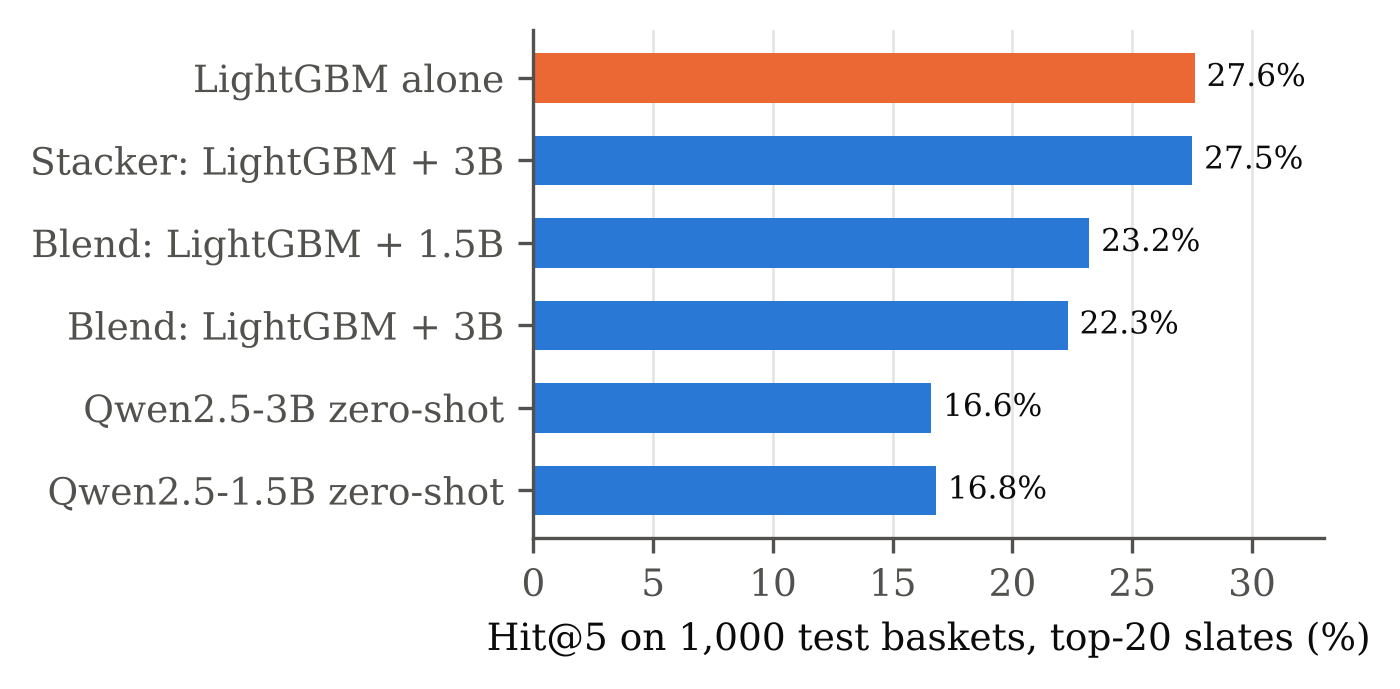
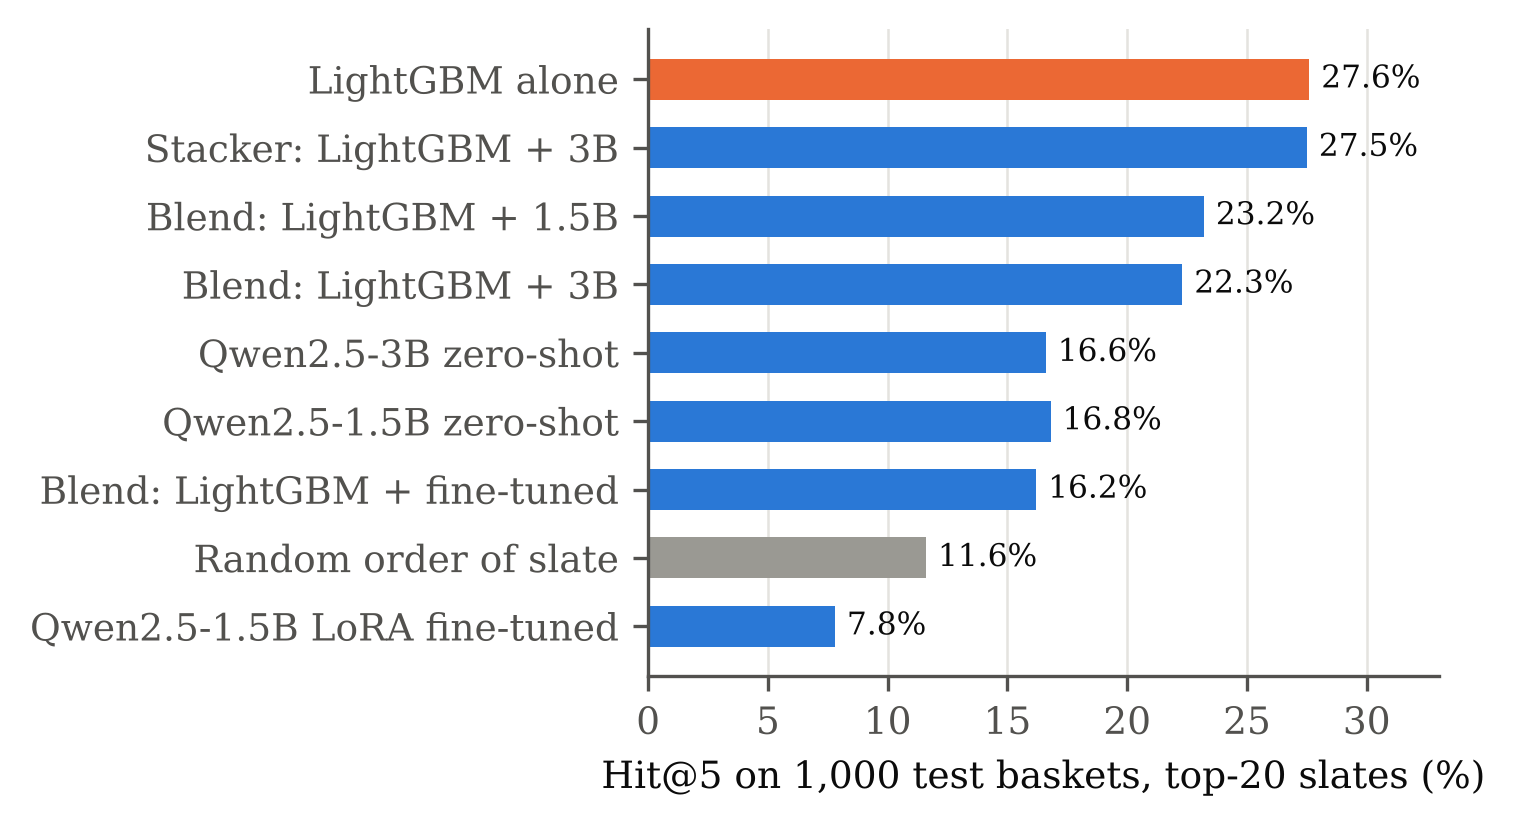
Record E6 LoRA fine-tune NO-GO and close the LLM track
Fine-tuned Qwen2.5-1.5B: Hit@5 7.8% (random order of the slate 11.6%),
blend 16.2% vs LightGBM 27.6%. LightGBM stays the ranker; the LLM is kept
only for cold-start products and explanations. Updates RESULTS, the core
pipeline worklog, WORKLOG.md, the paper text and Figure 4.

Changed region(s): [[0.0, 0.061, 0.9829, 0.9753], [0.3686, 0.8229, 0.3993, 0.8534]]

diff --git a/paper/main.tex b/paper/main.tex
@@ -33,7 +33,7 @@ Stage~1 retrieves 150 candidates from eleven sources (classical recommenders, te
 Stage~2 solves a small mixed-integer program per basket that trades expected relevance against expected gross profit, under a hard 15\% per-item margin floor, a two-item limit, stock availability, and an optional overstock weight.
 On a strict temporal split of UCI Online Retail II (4,480 test baskets), the reranker reaches Hit@10 of 38.1\%, 7.0 points above the best baseline (EASE, 31.1\%; paired 95\% CI [6.0, 8.0]).
 With \emph{simulated} unit cost and stock, the optimizer at $\lambda{=}0.5$ raises realized gross profit per basket by 14\% over the ranker's top-2 (paired CI of the gain \pounds0.014--0.044) for a 1.1-point drop in Hit@2, with zero margin-floor violations; the gain stays positive over nine cost and stock scenarios.
-We also report a negative result: zero-shot Qwen2.5 1.5B and 3B rerankers, their rank blends, and a stacker that feeds the LLM score to a logistic model all fail to beat LightGBM on the same slates.
+We also report a negative result: zero-shot Qwen2.5 1.5B and 3B rerankers, their rank blends, a stacker that feeds the LLM score to a logistic model, and a LoRA fine-tune of the 1.5B model all fail to beat LightGBM on the same slates.
 All numbers in this paper are read from files the pipeline writes; none are targets.
 \end{abstract}
 
@@ -290,6 +290,9 @@ Qwen2.5-1.5B zero-shot & 16.8 & 29.5 & $-10.8$ [$-13.7$, $-7.9$] \\
 Qwen2.5-3B zero-shot & 16.6 & --- & $-11.0$ [$-13.7$, $-8.4$] \\
 \quad rank blend with LightGBM & 22.3 & 33.9 & $-5.3$ [$-7.2$, $-3.4$] \\
 Stacker (LightGBM + 3B features) & 27.5 & --- & $-0.1$ [$-0.6$, $+0.3$] \\
+Qwen2.5-1.5B LoRA fine-tuned & 7.8 & 17.4 & $-19.8$ [$-22.8$, $-16.7$] \\
+\quad rank blend with LightGBM & 16.2 & 30.4 & $-11.4$ [$-13.9$, $-8.8$] \\
+Random order of the slate & 11.6 & 23.2 & --- \\
 \bottomrule
 \end{tabular}
 \end{table}
@@ -308,8 +311,11 @@ A logistic stacker fit on 1,147 held-out validation baskets, with LightGBM and 3
 In short, zero-shot Qwen adds no measurable signal beyond the trained reranker on this task.
 
 This agrees with \citet{hou2024zeroshot}, who find zero-shot LLM rankers trail trained models, and suggests the gap is larger for wholesale baskets described only by terse product names.
-A LoRA fine-tune~\citep{hu2022lora,bao2023tallrec} of the 1.5B model on 10,772 training-period pairs (one hidden item to three LightGBM hard negatives, two epochs) is running at the time of writing; we will report it whatever the outcome.
-Until an LLM wins on a paired test, LightGBM remains MarginGraph's ranker, and the LLM's role is limited to explanations and to products with no purchase history.
+We then fine-tuned the 1.5B model with LoRA~\citep{hu2022lora,bao2023tallrec} on 10,772 training-period pairs (each hidden item with three LightGBM hard negatives from the same slate; two epochs, class-weighted yes/no loss).
+The weighted loss fell to about $\ln 2$ within 300 steps and stayed there, and the fine-tuned model is worse than zero-shot: Hit@5 7.8\%, below the 11.6\% of a random order of the same slate (the target is in the slate for 46.3\% of baskets).
+Its blend with LightGBM also loses at Hit@10 ($-5.7$ [$-7.7$, $-3.6$]).
+A likely cause, which we did not test, is that LightGBM's near-misses are often the same product in another colour or size, which terse product names cannot separate.
+We therefore keep LightGBM as MarginGraph's ranker and limit the LLM to explanations and to products with no purchase history (7.1\% of test targets); neither use is evaluated here.
 
 % ---------------------------------------------------------------------------
 \section{Limitations}
@@ -318,15 +324,15 @@ Until an LLM wins on a paired test, LightGBM remains MarginGraph's ranker, and t
 \item \textbf{Offline replay.} Replay credits an offer only if the shopper bought it without being shown it. It cannot see purchases an offer would have caused, so it likely understates any recommender, and it cannot measure how shoppers react to being shown higher-margin items. Only an online A/B test can.
 \item \textbf{One store, one task.} One UK wholesaler, mostly business buyers, 2009--2011. Hiding one item per invoice is a proxy for a real checkout widget.
 \item \textbf{Retrieval ceiling.} 35\% of test targets are outside the candidate pool, which bounds every Stage~1 and Stage~2 result.
-\item \textbf{LLM scope.} We tested two small instruction-tuned models zero-shot, one prompt and one scoring method, on the slates of the first ranker (Hit@10 35.6\%). Larger models, other prompts, or fine-tuning may behave differently; the fine-tune is pending.
+\item \textbf{LLM scope.} We tested two small instruction-tuned models zero-shot, one prompt and one scoring method, on the slates of the first ranker (Hit@10 35.6\%). One LoRA fine-tune of the 1.5B model with hard negatives also failed. Larger models, other prompts, richer product text, or easier negatives may behave differently.
 \item \textbf{Latency.} Solver time is 2.7\,ms. The serving latency in the repository (p50 22\,ms for the research API, p95 88\,ms end to end for the multi-store service) was measured in a container, not in a store's production setting.
 \end{itemize}
 
 % ---------------------------------------------------------------------------
 \section{Conclusion}
 On a public retail dataset and a CPU, a calibrated gradient-boosted reranker beats a strong classical ladder for checkout add-ons, and a tiny per-basket MILP converts its probabilities into choices that respect hard margin and stock rules while raising (simulated) profit at a small, tunable cost in hit rate.
-Small open LLMs, used zero-shot, did not help.
-The next steps are to replace simulated costs with a real store's data, to run an online test, and to finish the fine-tuned LLM experiment.
+Small open LLMs did not help, either zero-shot or after a LoRA fine-tune.
+The next steps are to replace simulated costs with a real store's data, to run an online test, and to measure the LLM where it is still used: cold-start products and explanations.
 
 \section*{Reproducibility}
 \sloppy

diff --git a/paper/figures/make_figures.py b/paper/figures/make_figures.py
@@ -112,12 +112,13 @@ def fig_sensitivity():
 
 # Fig 4: LLM vs LightGBM on the same 1,000 test slates (Hit@5)
 def fig_llm():
-    rows = [("Qwen2.5-1.5B zero-shot", 16.8), ("Qwen2.5-3B zero-shot", 16.6),
+    rows = [("Qwen2.5-1.5B LoRA fine-tuned", 7.8), ("Random order of slate", 11.6),
+            ("Blend: LightGBM + fine-tuned", 16.2), ("Qwen2.5-1.5B zero-shot", 16.8), ("Qwen2.5-3B zero-shot", 16.6),
             ("Blend: LightGBM + 3B", 22.3), ("Blend: LightGBM + 1.5B", 23.2),
             ("Stacker: LightGBM + 3B", 27.5), ("LightGBM alone", 27.6)]
-    fig, ax = plt.subplots(figsize=(3.4, 2.2))
+    fig, ax = plt.subplots(figsize=(3.4, 2.8))
     y = range(len(rows))
-    ax.barh(y, [v for _, v in rows], color=[ORANGE if n == "LightGBM alone" else BLUE for n, _ in rows], height=0.6)
+    ax.barh(y, [v for _, v in rows], color=[ORANGE if n == "LightGBM alone" else GREY if n.startswith("Random") else BLUE for n, _ in rows], height=0.6)
     for yi, (_, v) in zip(y, rows):
         ax.text(v + 0.5, yi, f"{v:.1f}%", va="center", fontsize=7.5, color=INK)
     ax.set_yticks(list(y), [n for n, _ in rows])

diff --git a/docs/WORKLOG.md b/docs/WORKLOG.md
@@ -9,7 +9,7 @@ Each work thread keeps its own detailed log in [`docs/worklog/`](worklog/). This
 | # | Thread (goal) | Started | Pull request | Branch | Status | Detailed log |
 | --- | --- | --- | --- | --- | --- | --- |
 | 1 | Rate MarginGraph and plan experiments | 2026-10-25 | [#1](https://github.com/Sanskar1724/MarginGraph/pull/1) Notebooks, project report, experiment plan | `claude/add-notebooks-and-plan` | Merged into `main` 2026-10-26 | [history](worklog/history-2026-10-26.md#1-review-and-experiment-plan-2026-10-25) |
-| 2 | Build MarginGraph end to end | 2026-10-26 09:00 | [#2](https://github.com/Sanskar1724/MarginGraph/pull/2) Pipeline: audit, baselines, LightGBM, MILP, simulation, API | `claude/project-thread-mkbaip` → `feat/core-pipeline`, `feat/llm-reranker` | Merged into `main` 2026-10-26; E6 fine-tune on Kaggle in progress | [core-pipeline.md](worklog/core-pipeline.md), [history](worklog/history-2026-10-26.md#2-end-to-end-build-2026-10-26) |
+| 2 | Build MarginGraph end to end | 2026-10-26 09:00 | [#2](https://github.com/Sanskar1724/MarginGraph/pull/2) Pipeline: audit, baselines, LightGBM, MILP, simulation, API | `claude/project-thread-mkbaip` → `feat/core-pipeline`, `feat/llm-reranker` | Merged into `main` 2026-10-26; E6 fine-tune NO-GO, LLM track closed (option 3) | [core-pipeline.md](worklog/core-pipeline.md), [history](worklog/history-2026-10-26.md#2-end-to-end-build-2026-10-26) |
 | 3 | Write project report and roadmap | 2026-10-26 11:38 | [#3](https://github.com/Sanskar1724/MarginGraph/pull/3) Project report, roadmap, work log | `claude/project-thread-j64y7y` → `docs/project-report` | Merged into `main` 2026-10-26 | [history](worklog/history-2026-10-26.md#4-project-report-roadmap-and-work-log-2026-10-26) |
 | 4 | Build production recommendation service | 2026-10-26 11:37 | [#12](https://github.com/Sanskar1724/MarginGraph/pull/12) Production service: multi-store API, nightly training, A/B logging, Docker | `claude/project-thread-psfiei` → `feat/api-service` | In review; replay of 1,031 real orders p50 about 65 ms | [service.md](worklog/service.md) |
 | 5 | Deploy free live demo | 2026-10-26 11:37 | [#4](https://github.com/Sanskar1724/MarginGraph/pull/4) Free Hugging Face Space demo | `claude/project-thread-r1a0d1` → `feat/hf-space-demo` | Merged into `main` 2026-10-26 | [demo.md](worklog/demo.md) |
@@ -59,7 +59,7 @@ Old `claude/*` branches are deleted once their work is in `main` (see [repo-clea
 | 2026-10-26 10:17 | LLM rerank, Qwen2.5-1.5B zero-shot | Kaggle T4 (San) | Hit@5 16.8% vs LightGBM 27.6%: **NO-GO** | `RESULTS.md` |
 | 2026-10-26 10:39 | LLM rerank, Qwen2.5-3B zero-shot | Kaggle T4 (San) | Hit@5 16.6% vs 27.6%: **NO-GO** | `RESULTS.md` |
 | 2026-10-26 11:19 | Option 1: LLM score as stacker feature (3B) | Kaggle T4 (San) | Hit@5 27.5% vs 27.6%, LLM weight near 0: **NO-GO** | `RESULTS.md` |
-| 2026-10-26 11:43 → | Option 2 / E6: LoRA fine-tune of Qwen2.5-1.5B | Kaggle T4 (San) | Running, after two fixes (see history) | to be recorded |
+| 2026-10-26 11:43 → | Option 2 / E6: LoRA fine-tune of Qwen2.5-1.5B | Kaggle T4 (San), 3.6 GB peak | Hit@5 7.8% (random order 11.6%), blend 16.2% vs LightGBM 27.6%: **NO-GO**. LLM track closed: LightGBM ranks, LLM only for cold-start and explanations | `RESULTS.md`, [core-pipeline.md](worklog/core-pipeline.md) |
 
 ## Bugs found and fixed
 

diff --git a/docs/RESULTS.md b/docs/RESULTS.md
@@ -84,3 +84,16 @@ Qwen2.5-1.5B-Instruct, zero-shot yes/no scoring of the top-20 LightGBM slate, 1,
 Qwen2.5-3B-Instruct, same setup and baskets: LLM Hit@5 16.6% vs LightGBM 27.6% (−11.0 [−13.7, −8.4]); blend Hit@5 22.3% (−5.3 [−7.2, −3.4]); blend Hit@10 33.9% vs 36.1% (−2.2 [−4.0, −0.4]). **NO-GO**; 3B is no better than 1.5B zero-shot.
 
 Option 1, LLM as an extra signal (Qwen2.5-3B scores; logistic regression on LightGBM + LLM features fit on 1,147 held-out val baskets, tested on the same 1,000 test baskets): Hit@5 27.5% vs LightGBM 27.6% (−0.1 [−0.6, +0.3]); Hit@10 −0.1 [−0.6, +0.4]. The fitted LLM weights are near zero (llm 0.015, llm_z 0.055 vs lgbm 0.736). **NO-GO**: zero-shot Qwen adds no signal beyond LightGBM. Next: E6 LoRA fine-tune (`notebooks/llm_finetune_gpu.ipynb`).
+
+Option 2 / E6, LoRA fine-tune (Qwen2.5-1.5B, r=16, 10,772 training-period pairs: each hidden item with 3 LightGBM hard negatives from the same slate; 2 epochs, batch 8, class-weighted Yes/No loss; Kaggle T4, 3.6 GB peak GPU). The weighted loss fell from 1.80 to about 0.70 by step 300 and then stayed at ln 2 ≈ 0.693, i.e. the model stopped separating the classes. Same 1,000 test baskets and slates:
+
+| System | Hit@1 | Hit@5 | Hit@10 |
+| --- | --- | --- | --- |
+| LightGBM | 11.1% | 27.6% | 36.1% |
+| Fine-tuned 1.5B alone | 1.4% | 7.8% | 17.4% |
+| Rank blend (LightGBM + fine-tuned) | 4.0% | 16.2% | 30.4% |
+| Random order of the slate | 2.3% | 11.6% | 23.2% |
+
+Paired differences vs LightGBM, points [95% CI]: fine-tuned alone Hit@1 −9.7 [−11.7, −7.7], Hit@5 −19.8 [−22.8, −16.7], Hit@10 −18.7 [−21.7, −15.5]; blend Hit@1 −7.1 [−9.2, −4.9], Hit@5 −11.4 [−13.9, −8.8], Hit@10 −5.7 [−7.7, −3.6]. The random-order row is exact: the target is in the top-20 slate for 46.3% of baskets, so random Hit@k = 0.463 × k/20. **NO-GO**: the fine-tuned model ranks below random order. Our reading (not tested): the negatives are LightGBM's own near-misses, often the same product in another colour or size, so the short product names give the model nothing to tell positive from negative, and it learned to answer 50/50.
+
+**LLM track closed (option 3).** LightGBM stays the ranker. The LLM is kept only for (a) products with no purchase history, which no co-purchase model can rank (7.1% of test targets), and (b) one-line "why this add-on" explanations. Neither use has been measured yet.

diff --git a/docs/worklog/core-pipeline.md b/docs/worklog/core-pipeline.md
@@ -96,9 +96,11 @@ Runs 4–5 (10:40, 11:17) only added exports (`val_slates.parquet`, `train_slate
 | 1 | 10:17 | Qwen2.5-1.5B zero-shot, yes/no score on the top-20 LightGBM slate, 1,000 test baskets | LLM Hit@5 16.8% vs LightGBM 27.6%; blend 23.2%; blend Hit@10 34.8% vs 36.1% (CI crosses 0) | NO-GO |
 | 2 | 10:39 | Qwen2.5-3B zero-shot, same baskets | LLM Hit@5 16.6%; blend 22.3%; blend Hit@10 −2.2 pts [−4.0, −0.4] | NO-GO |
 | 3 | 11:19 | Option 1: logistic-regression stacker (LightGBM + 3B LLM features), fit on 1,147 held-out val baskets | Hit@5 27.5% vs 27.6% (−0.1 [−0.6, +0.3]); LLM weights ≈ 0 (0.015 / 0.055 vs LightGBM 0.736) | NO-GO |
-| 4 | in progress | Option 2: LoRA fine-tune of 1.5B on 10,772 train-period pairs (1 hidden item : 3 LightGBM hard negatives), 2 epochs | pending | |
+| 4 | 12:05–finish | Option 2: LoRA fine-tune of 1.5B on 10,772 train-period pairs (1 hidden item : 3 LightGBM hard negatives), 2 epochs, batch 8. Ran at 3.6 GB peak GPU. Weighted loss fell from 1.80 to ~0.70 by step 300, then stayed flat at ln 2 ≈ 0.693 to the end | LLM Hit@1/5/10 1.4 / 7.8 / 17.4% vs LightGBM 11.1 / 27.6 / 36.1%; blend 4.0 / 16.2 / 30.4%; blend Hit@5 −11.4 [−13.9, −8.8], Hit@10 −5.7 [−7.7, −3.6]. Random order of the slate gives 2.3 / 11.6 / 23.2%, so the LLM is below random | NO-GO |
 
-**Conclusion so far:** zero-shot Qwen adds no signal beyond LightGBM. If the fine-tune (#4) is also NO-GO, the plan is option 3: LightGBM stays the ranker, and the LLM is used only for new products with no purchase history (7% of test targets) and for "why this add-on" explanations.
+**Conclusion:** neither zero-shot nor fine-tuned Qwen adds signal beyond LightGBM. The flat loss at ln 2 says the fine-tune never learned to separate the hidden item from LightGBM's hard negatives, which are often the same product in another colour or size (our reading, not tested).
+
+**Closeout (option 3, agreed with San):** the LLM track is closed. LightGBM stays the ranker. The LLM is kept only for new products with no purchase history (7.1% of test targets) and for "why this add-on" explanations; neither use is measured yet. The result was recorded in RESULTS, this log, the paper and `docs/WORKLOG.md` in a PR on top of the rewritten `main`; after it merges, `claude/project-thread-mkbaip` can be deleted.
 
 ## 6. Kaggle and notebook bugs, and their fixes
 

diff --git a/paper/README.md b/paper/README.md
@@ -23,5 +23,5 @@ On Overleaf: upload `main.tex`, `references.bib` and `figures/`, then compile wi
 ## Before submitting to arXiv
 
 - Put your full name and affiliation in `\author{}`.
-- Add the LoRA fine-tune result (E6) to Section 5.4 when the Kaggle run finishes, whatever it shows.
+- Rebuild `main.pdf` with LaTeX: the E6 fine-tune result (NO-GO) is in `main.tex`, `PAPER.md` and the figures, but the PDF predates it.
 - arXiv's cs.IR category needs an endorsement for first-time submitters.
